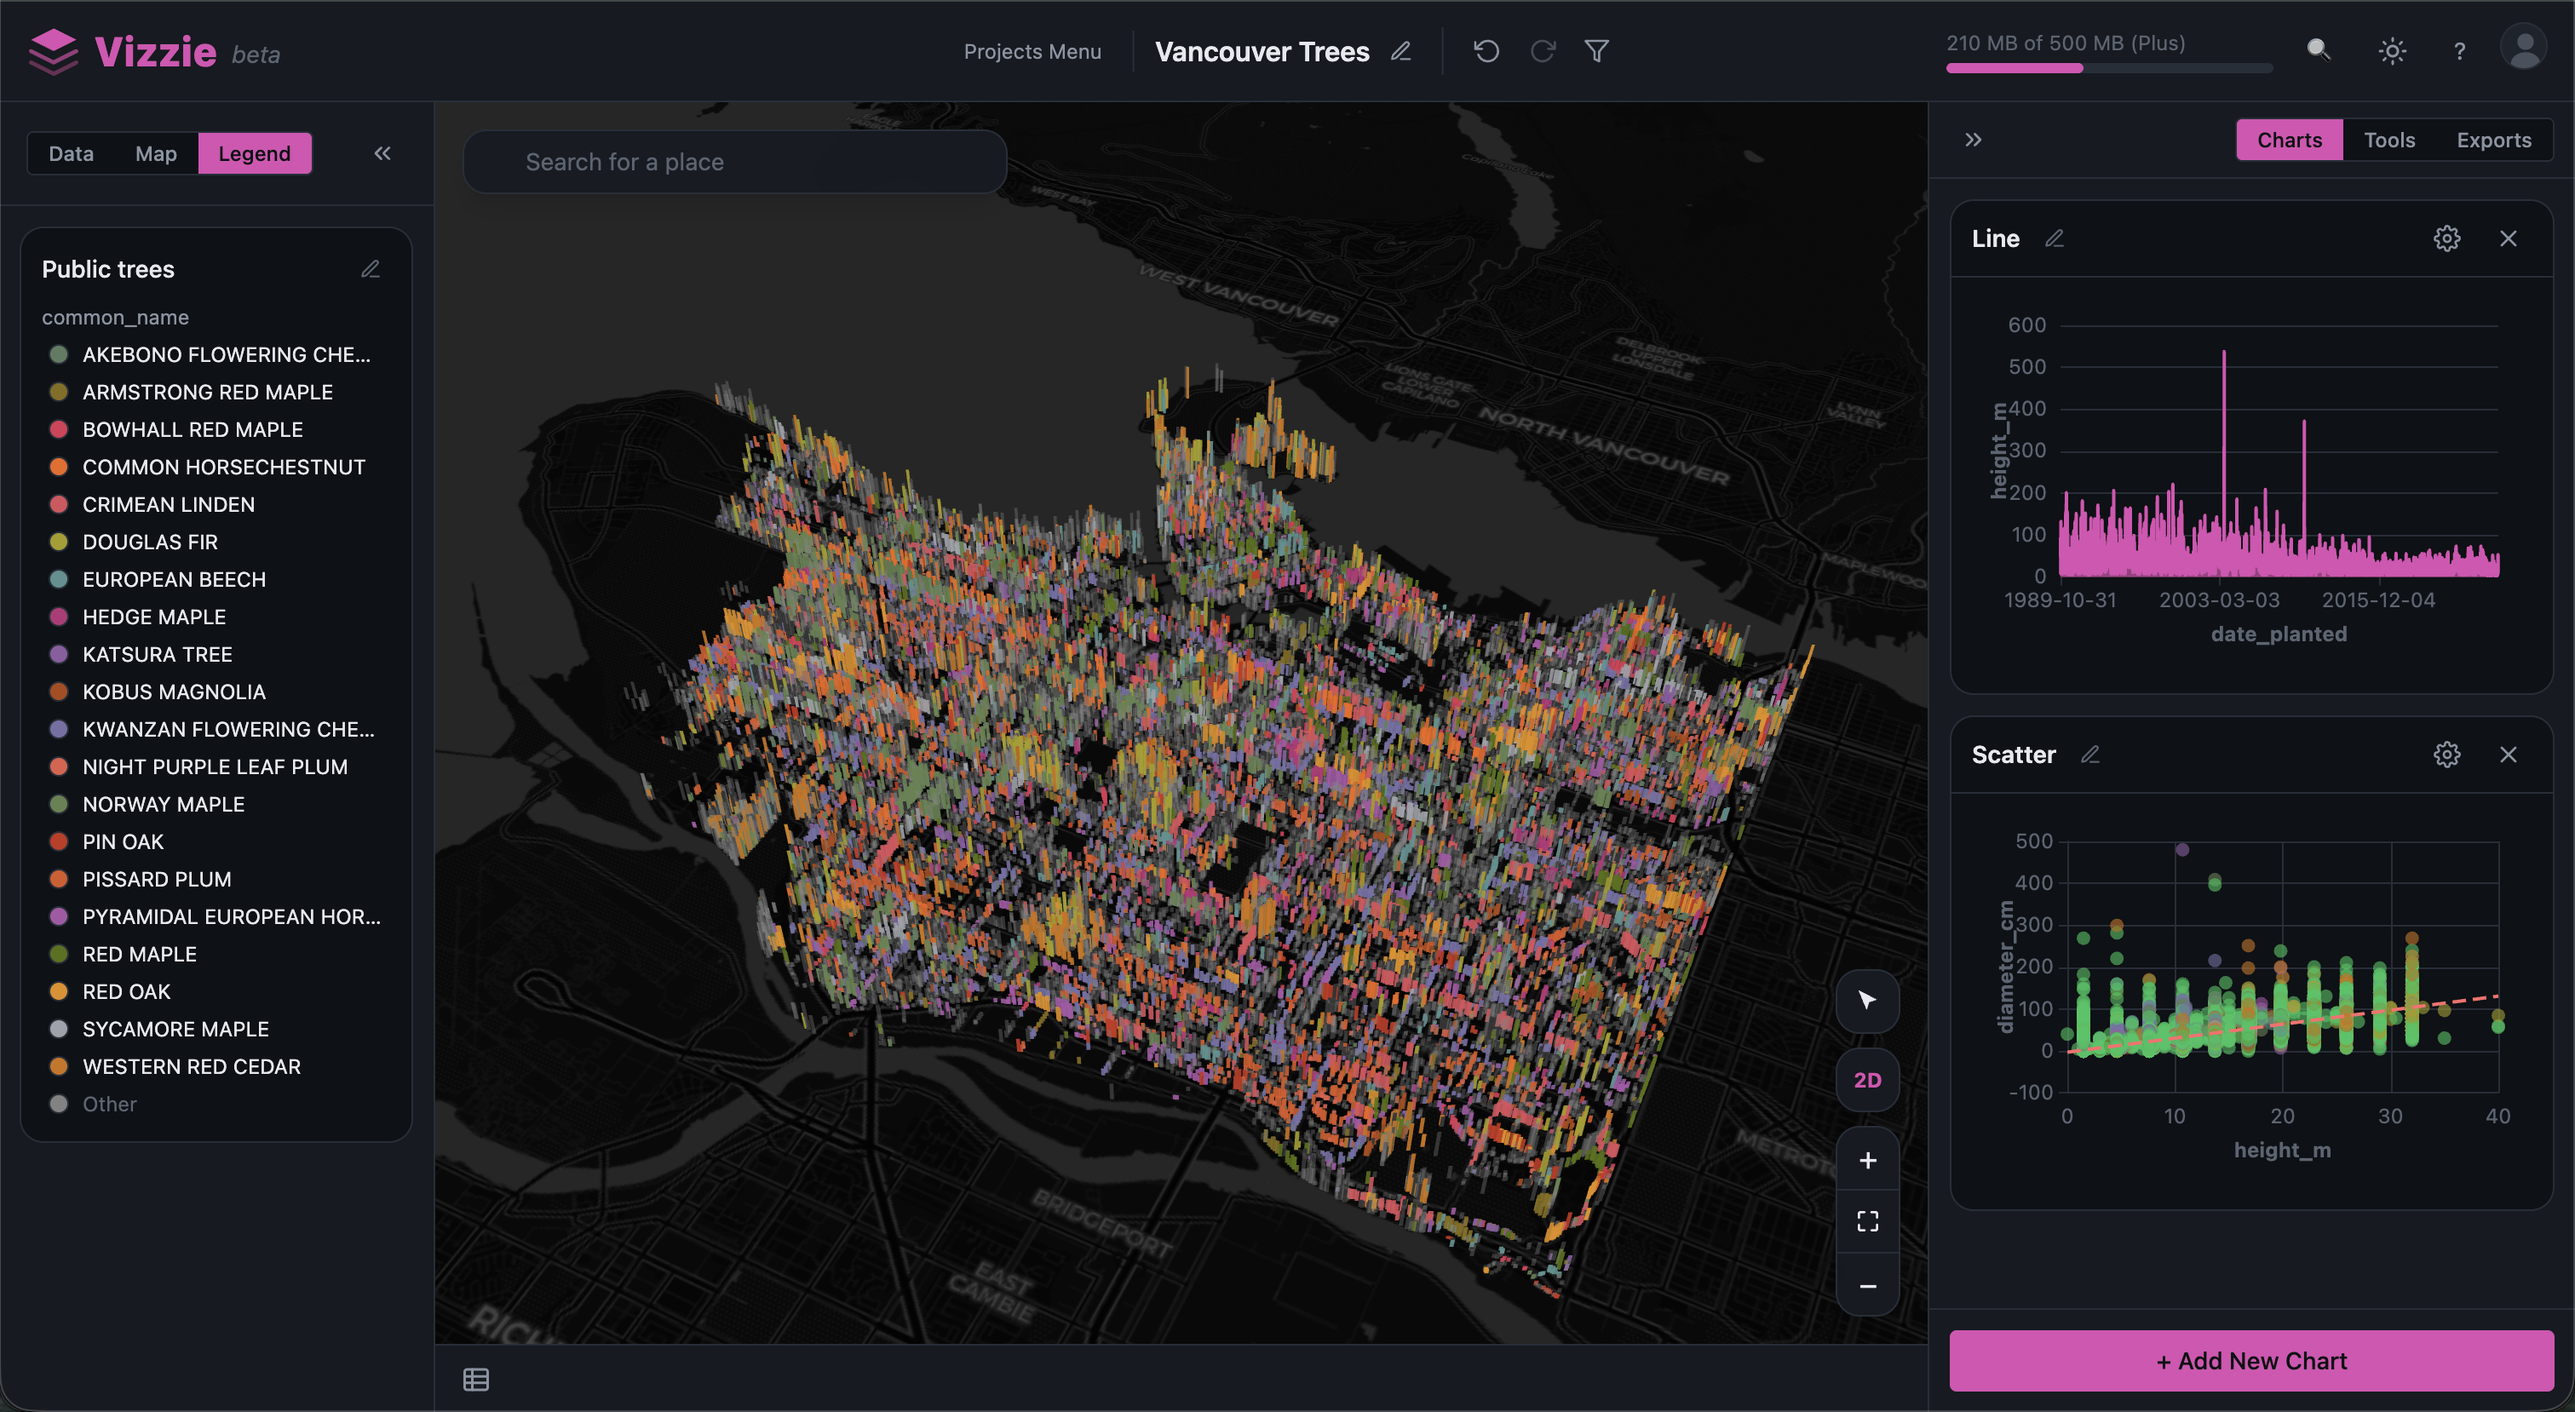
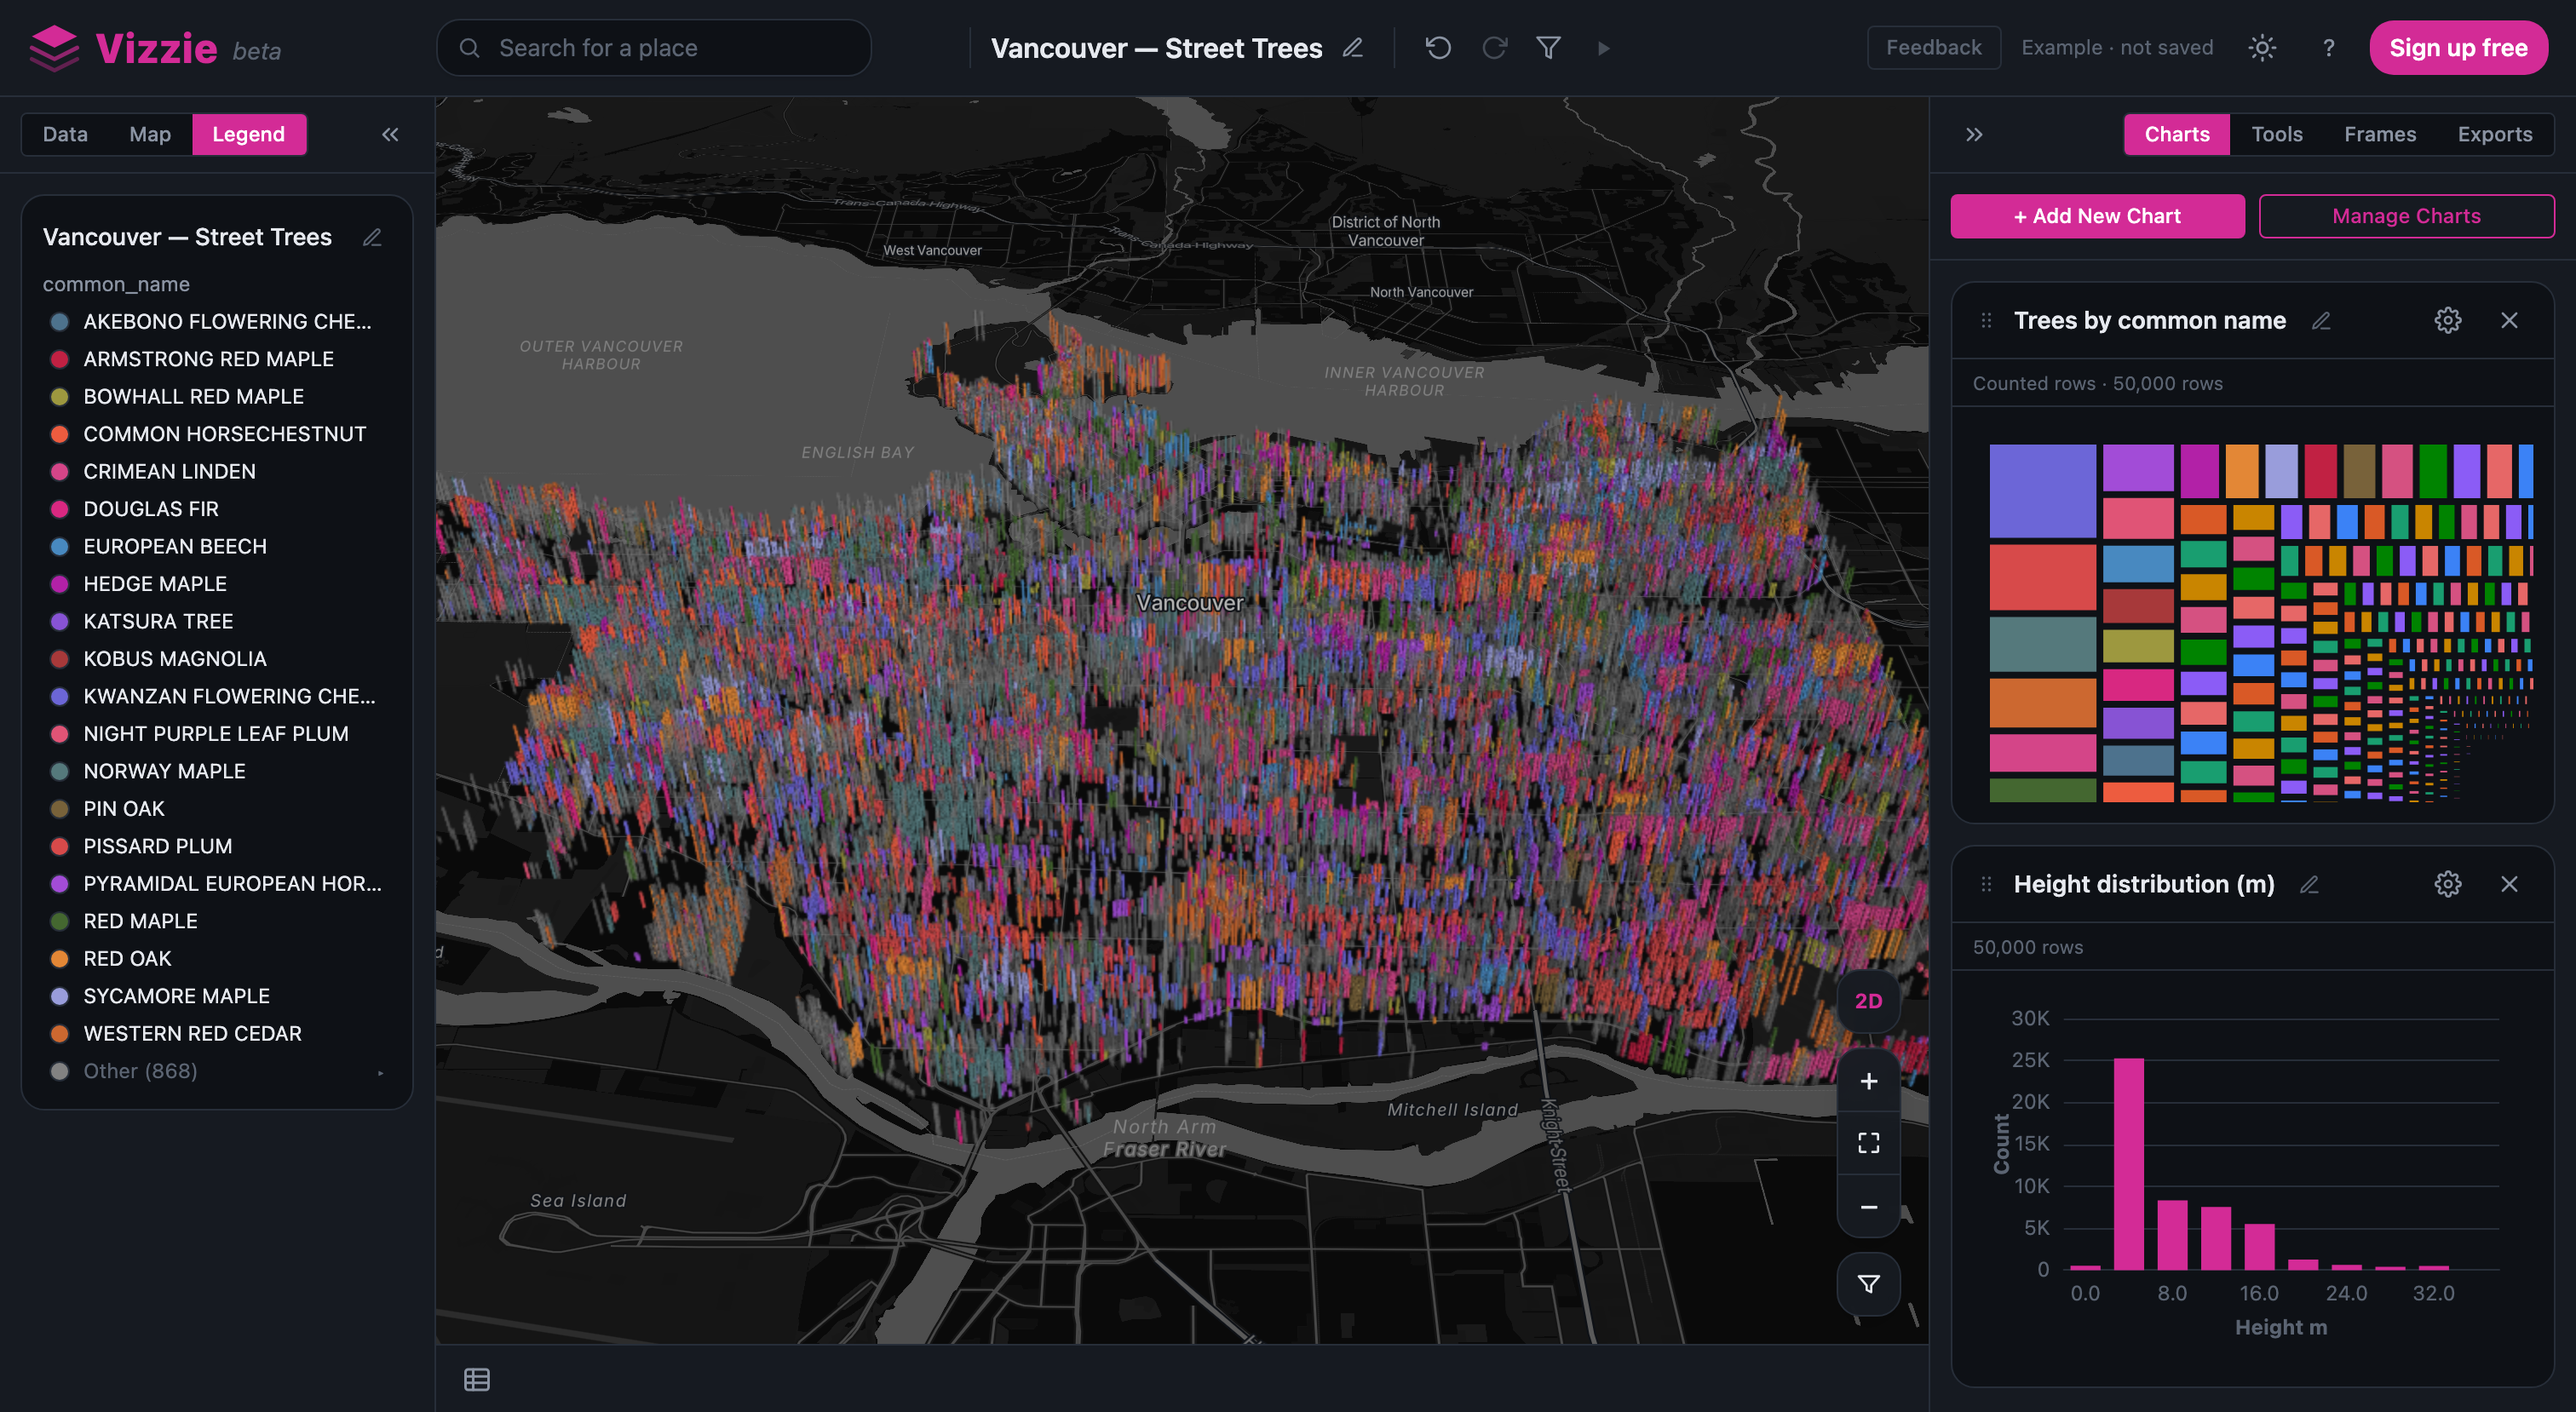
feat: county pages open their own map

diff --git a/geography/us-county/new-york-county-ny/index.html b/geography/us-county/new-york-county-ny/index.html
@@ -277,11 +277,11 @@
          leaving 297 of the 301 inhabited tracts with a value on the map above.</p>
 
   <h2 style="margin-top:44px">Map this yourself</h2>
-  <p>Everything above is public data. Bring a CSV with a column of tract or county
-         FIPS codes and Vizzie joins it to these same boundaries — no shapefile, no
-         download, no GIS install. Reading this page needs no account; saving a map, adding your
-         own data or publishing does.</p>
-       <p><a class="btn" href="https://app.vizzie.org/?utm_source=vizzie-web&amp;utm_medium=geography&amp;utm_campaign=county-profile&amp;utm_content=new-york-county-ny">Open the studio</a></p>
+  <p>This map is live. Open it and every tract is yours to interrogate — hover a tract for its
+         figure, recolour the classification, or bring a CSV with a column of tract or county
+         FIPS codes and Vizzie joins it to these same boundaries. No shapefile, no
+         download, no GIS install. Reading needs no account; saving a copy does.</p>
+       <p><a class="btn" href="https://app.vizzie.org/#view=5405a1e8ca80181275">Open this map in the studio</a></p>
 
   <p class="prov">
     Demography: US Census Bureau, American Community Survey 2023 5-year estimates

diff --git a/geography/us-county/nassau-county-ny/index.html b/geography/us-county/nassau-county-ny/index.html
@@ -279,11 +279,11 @@
          a published median, leaving 278 of 279 inhabited tracts with a value.</p>
 
   <h2 style="margin-top:44px">Map this yourself</h2>
-  <p>Everything above is public data. Bring a CSV with a column of tract or county
-         FIPS codes and Vizzie joins it to these same boundaries — no shapefile, no
-         download, no GIS install. Reading this page needs no account; saving a map, adding your
-         own data or publishing does.</p>
-       <p><a class="btn" href="https://app.vizzie.org/?utm_source=vizzie-web&amp;utm_medium=geography&amp;utm_campaign=county-profile&amp;utm_content=nassau-county-ny">Open the studio</a></p>
+  <p>This map is live. Open it and every tract is yours to interrogate — hover a tract for its
+         figure, recolour the classification, or bring a CSV with a column of tract or county
+         FIPS codes and Vizzie joins it to these same boundaries. No shapefile, no
+         download, no GIS install. Reading needs no account; saving a copy does.</p>
+       <p><a class="btn" href="https://app.vizzie.org/#view=5ad0d2dfd477b935d0">Open this map in the studio</a></p>
 
   <p class="prov">
     Demography: US Census Bureau, American Community Survey 2023 5-year estimates

diff --git a/geography/us-county/wake-county-nc/index.html b/geography/us-county/wake-county-nc/index.html
@@ -276,11 +276,11 @@
          publish a median, leaving 228 of the 229 inhabited tracts with a value.</p>
 
   <h2 style="margin-top:44px">Map this yourself</h2>
-  <p>Everything above is public data. Bring a CSV with a column of tract or county
-         FIPS codes and Vizzie joins it to these same boundaries — no shapefile, no
-         download, no GIS install. Reading this page needs no account; saving a map, adding your
-         own data or publishing does.</p>
-       <p><a class="btn" href="https://app.vizzie.org/?utm_source=vizzie-web&amp;utm_medium=geography&amp;utm_campaign=county-profile&amp;utm_content=wake-county-nc">Open the studio</a></p>
+  <p>This map is live. Open it and every tract is yours to interrogate — hover a tract for its
+         figure, recolour the classification, or bring a CSV with a column of tract or county
+         FIPS codes and Vizzie joins it to these same boundaries. No shapefile, no
+         download, no GIS install. Reading needs no account; saving a copy does.</p>
+       <p><a class="btn" href="https://app.vizzie.org/#view=a150d5f1b3bd108205">Open this map in the studio</a></p>
 
   <p class="prov">
     Demography: US Census Bureau, American Community Survey 2023 5-year estimates

diff --git a/geography/us-county/santa-clara-county-ca/index.html b/geography/us-county/santa-clara-county-ca/index.html
@@ -277,11 +277,11 @@
          commuters travel by public transport.</p>
 
   <h2 style="margin-top:44px">Map this yourself</h2>
-  <p>Everything above is public data. Bring a CSV with a column of tract or county
-         FIPS codes and Vizzie joins it to these same boundaries — no shapefile, no
-         download, no GIS install. Reading this page needs no account; saving a map, adding your
-         own data or publishing does.</p>
-       <p><a class="btn" href="https://app.vizzie.org/?utm_source=vizzie-web&amp;utm_medium=geography&amp;utm_campaign=county-profile&amp;utm_content=santa-clara-county-ca">Open the studio</a></p>
+  <p>This map is live. Open it and every tract is yours to interrogate — hover a tract for its
+         figure, recolour the classification, or bring a CSV with a column of tract or county
+         FIPS codes and Vizzie joins it to these same boundaries. No shapefile, no
+         download, no GIS install. Reading needs no account; saving a copy does.</p>
+       <p><a class="btn" href="https://app.vizzie.org/#view=8bc3ff45bd8e3bcc84">Open this map in the studio</a></p>
 
   <p class="prov">
     Demography: US Census Bureau, American Community Survey 2023 5-year estimates

diff --git a/geography/us-county/travis-county-tx/index.html b/geography/us-county/travis-county-tx/index.html
@@ -279,11 +279,11 @@
          of commuters travel by public transport.</p>
 
   <h2 style="margin-top:44px">Map this yourself</h2>
-  <p>Everything above is public data. Bring a CSV with a column of tract or county
-         FIPS codes and Vizzie joins it to these same boundaries — no shapefile, no
-         download, no GIS install. Reading this page needs no account; saving a map, adding your
-         own data or publishing does.</p>
-       <p><a class="btn" href="https://app.vizzie.org/?utm_source=vizzie-web&amp;utm_medium=geography&amp;utm_campaign=county-profile&amp;utm_content=travis-county-tx">Open the studio</a></p>
+  <p>This map is live. Open it and every tract is yours to interrogate — hover a tract for its
+         figure, recolour the classification, or bring a CSV with a column of tract or county
+         FIPS codes and Vizzie joins it to these same boundaries. No shapefile, no
+         download, no GIS install. Reading needs no account; saving a copy does.</p>
+       <p><a class="btn" href="https://app.vizzie.org/#view=80cf91f08f27b85869">Open this map in the studio</a></p>
 
   <p class="prov">
     Demography: US Census Bureau, American Community Survey 2023 5-year estimates

diff --git a/geography/us-county/bronx-county-ny/index.html b/geography/us-county/bronx-county-ny/index.html
@@ -277,11 +277,11 @@
          tracts carrying a value.</p>
 
   <h2 style="margin-top:44px">Map this yourself</h2>
-  <p>Everything above is public data. Bring a CSV with a column of tract or county
-         FIPS codes and Vizzie joins it to these same boundaries — no shapefile, no
-         download, no GIS install. Reading this page needs no account; saving a map, adding your
-         own data or publishing does.</p>
-       <p><a class="btn" href="https://app.vizzie.org/?utm_source=vizzie-web&amp;utm_medium=geography&amp;utm_campaign=county-profile&amp;utm_content=bronx-county-ny">Open the studio</a></p>
+  <p>This map is live. Open it and every tract is yours to interrogate — hover a tract for its
+         figure, recolour the classification, or bring a CSV with a column of tract or county
+         FIPS codes and Vizzie joins it to these same boundaries. No shapefile, no
+         download, no GIS install. Reading needs no account; saving a copy does.</p>
+       <p><a class="btn" href="https://app.vizzie.org/#view=574469e6e3e8400478">Open this map in the studio</a></p>
 
   <p class="prov">
     Demography: US Census Bureau, American Community Survey 2023 5-year estimates

diff --git a/geography/us-county/wayne-county-mi/index.html b/geography/us-county/wayne-county-mi/index.html
@@ -279,11 +279,11 @@
          carry a value.</p>
 
   <h2 style="margin-top:44px">Map this yourself</h2>
-  <p>Everything above is public data. Bring a CSV with a column of tract or county
-         FIPS codes and Vizzie joins it to these same boundaries — no shapefile, no
-         download, no GIS install. Reading this page needs no account; saving a map, adding your
-         own data or publishing does.</p>
-       <p><a class="btn" href="https://app.vizzie.org/?utm_source=vizzie-web&amp;utm_medium=geography&amp;utm_campaign=county-profile&amp;utm_content=wayne-county-mi">Open the studio</a></p>
+  <p>This map is live. Open it and every tract is yours to interrogate — hover a tract for its
+         figure, recolour the classification, or bring a CSV with a column of tract or county
+         FIPS codes and Vizzie joins it to these same boundaries. No shapefile, no
+         download, no GIS install. Reading needs no account; saving a copy does.</p>
+       <p><a class="btn" href="https://app.vizzie.org/#view=6b23716a042e75cbfc">Open this map in the studio</a></p>
 
   <p class="prov">
     Demography: US Census Bureau, American Community Survey 2023 5-year estimates
